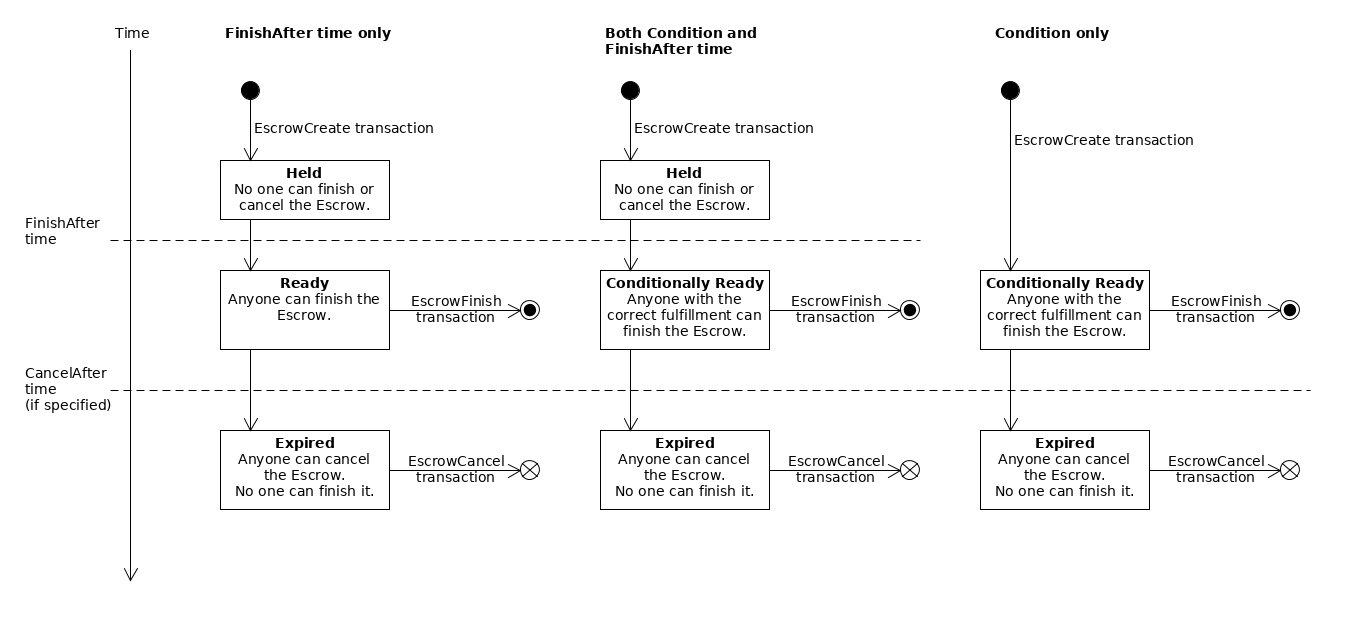
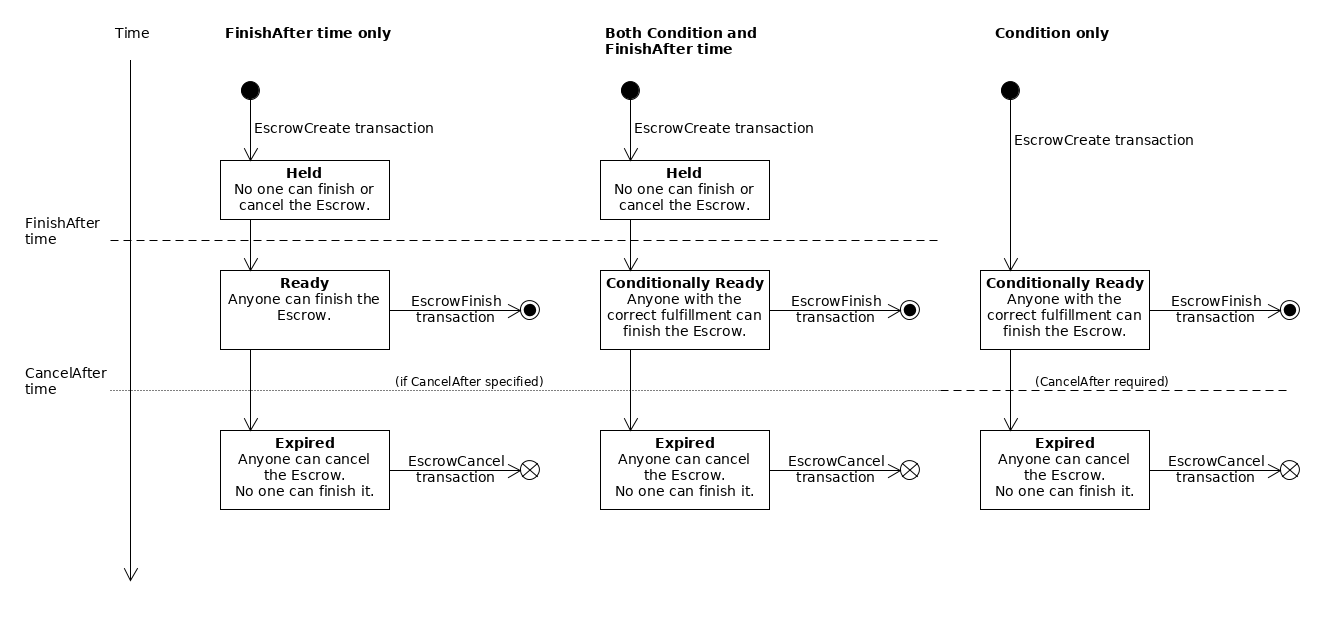
Escrow states: edits per reviews

diff --git a/content/concepts/complex-payment-types/escrow.md b/content/concepts/complex-payment-types/escrow.md
@@ -51,9 +51,9 @@ The following diagram shows the states an Escrow can progress through:
 
 The diagram shows three different cases for three possible combinations of the escrow's "finish-after" time (`FinishAfter` field), crypto-condition (`Condition` field), and expiration time (`CancelAfter` field):
 
-- **Time-based Escrow (left):** With only a finish-after time, the escrow is created in the **Held** state. After the specified time has passed, it becomes **Ready** and anyone can finish it. If the escrow has an expiration time and no one finishes it before that time passes, then the escrow becomes **Expired**. In the expired state, an escrow cannot be finished, and anyone can cancel it.
+- **Time-based Escrow (left):** With only a finish-after time, the escrow is created in the **Held** state. After the specified time has passed, it becomes **Ready** and anyone can finish it. If the escrow has an expiration time and no one finishes it before that time passes, then the escrow becomes **Expired**. In the expired state, an escrow cannot be finished, and anyone can cancel it. If the escrow does not have a `CancelAfter` field, it never expires and cannot be canceled.
 
-- **Combination Escrow (center):** If the escrow specifies both a crypto-condition (`Condition` field) _and_ a "finish-after" time (`FinishAfter` field), the escrow is **Held** until its finish-after time has passed. Then it becomes **Conditionally Ready**, and can finish it if they supply the correct fulfillment to the crypto-condition. If the escrow has an expiration time (`CancelAfter` field), and no one finishes it before that time passes, then the escrow becomes **Expired**. In the expired state, an escrow cannot be finished, and anyone can cancel it.
+- **Combination Escrow (center):** If the escrow specifies both a crypto-condition (`Condition` field) _and_ a "finish-after" time (`FinishAfter` field), the escrow is **Held** until its finish-after time has passed. Then it becomes **Conditionally Ready**, and can finish it if they supply the correct fulfillment to the crypto-condition. If the escrow has an expiration time (`CancelAfter` field), and no one finishes it before that time passes, then the escrow becomes **Expired**. In the expired state, an escrow cannot be finished, and anyone can cancel it. If the escrow does not have a `CancelAfter` field, it never expires and cannot be canceled.
 
 - **Conditional Escrow (right):** If the escrow specifies a crypto-condition (`Condition` field) and not a finish-after time, the escrow becomes **Conditionally Ready** immediately when it is created. During this time, anyone can finish the escrow, but only if they supply the correct fulfillment to the crypto-condition. If no one finishes the escrow before its expiration time (`CancelAfter` field), the escrow becomes **Expired**. (An escrow without a finish-after time _must_ have an expiration time.) In the expired state, the escrow can no longer be finished, and anyone can cancel it.
 
